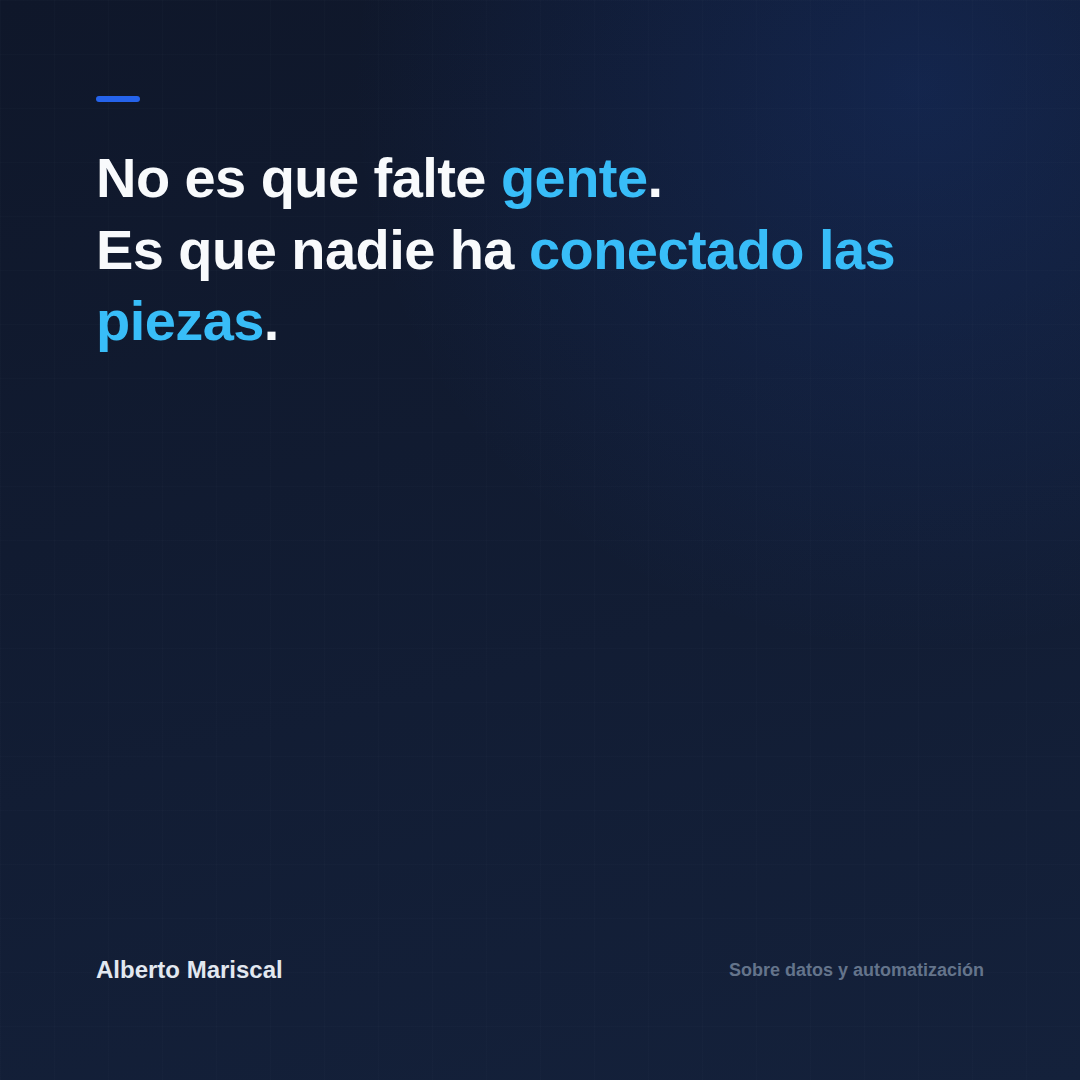
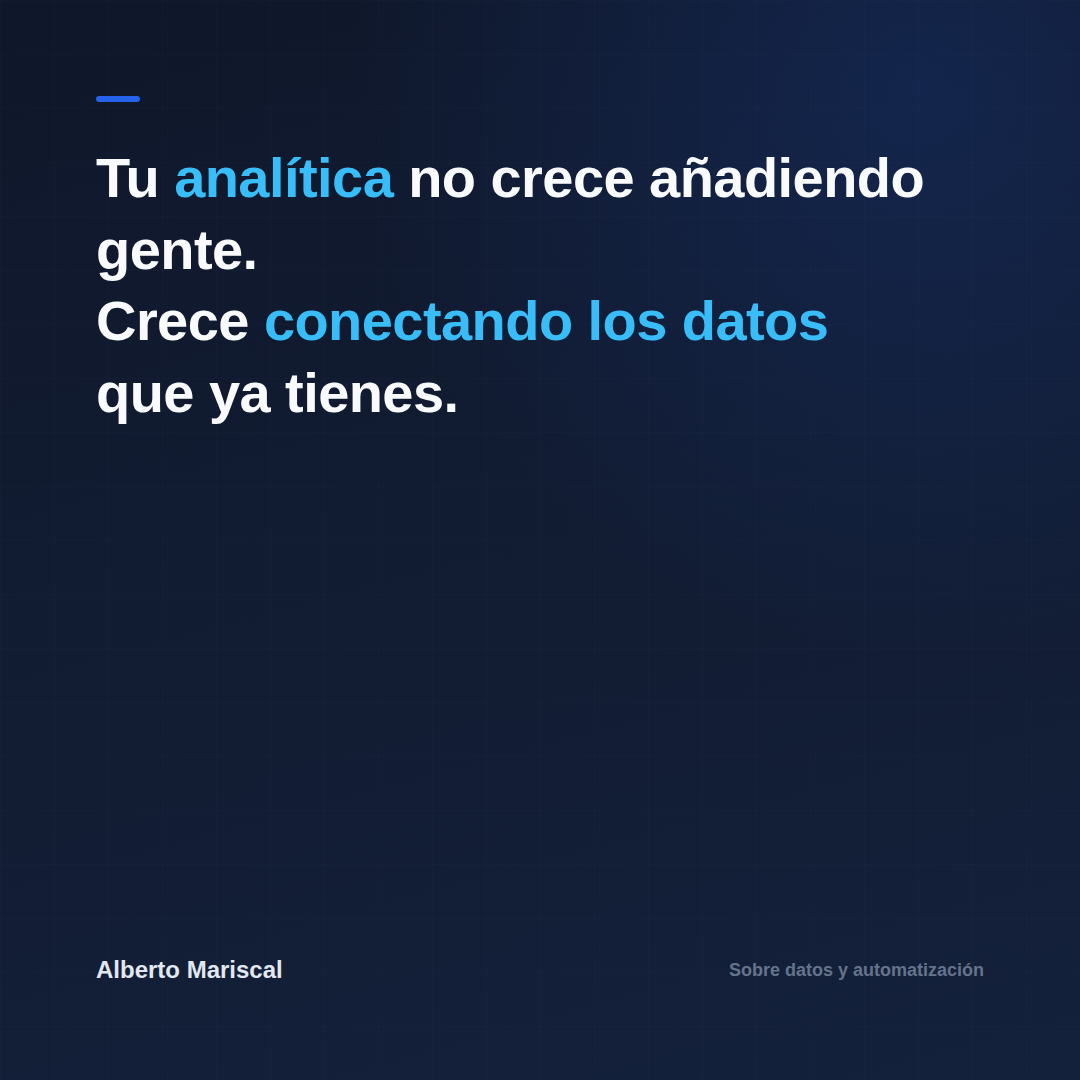
Reformula el post del jueves: en positivo y aterrizado a analítica
"No es que falte gente" sonaba a queja de la empresa actual de
Alberto -- mismo patrón detectado antes en la narrativa del Módulo 4.
Reescrito como afirmación positiva y acotada a analítica en concreto
("tu analítica no crece añadiendo gente, crece conectando los datos
que ya tienes"), en vez de una generalización sobre crecimiento que
no siempre es cierta. Imagen y texto del post actualizados.

Changed region(s): [[0.0917, 0.1222, 0.8556, 0.3972]]

diff --git a/contenido-linkedin/posts/2026-07-16-herramientas-desconectadas/post.md b/contenido-linkedin/posts/2026-07-16-herramientas-desconectadas/post.md
@@ -1,4 +1,4 @@
-# Post — No es que falte gente, es que nadie ha conectado las piezas
+# Post — Tu analítica no crece añadiendo gente, crece conectando los datos que ya tienes
 
 **Estado:** Listo para publicar
 **Fecha prevista:** jueves 2026-07-16
@@ -7,13 +7,13 @@
 
 ---
 
-Cuando una pyme me dice "necesitamos contratar a alguien para esto", casi siempre reviso antes si el problema es realmente de personas.
+Cuando una pyme quiere mejorar su capacidad de análisis, la primera idea suele ser contratar a alguien que se dedique a ello.
 
-La mayoría de las veces no lo es. El problema es que cada herramienta que usan —el CRM, la hoja de cálculo de ventas, el programa de contabilidad— vive en su propio mundo, sin hablarse entre ellas. Así que alguien tiene que pasar horas copiando datos de un sitio a otro a mano, cada semana, para que el resto de la empresa pueda tomar decisiones.
+Pero la mayoría de las veces el problema no es de personas: es que cada área usa su propia herramienta —CRM, hojas de cálculo, contabilidad— sin que se hablen entre sí. Así que cualquier análisis serio empieza igual: juntar datos a mano, herramienta a herramienta, antes de poder sacar ninguna conclusión.
 
-Eso no se arregla con una persona más. Se arregla conectando lo que ya tienes.
+Eso no se arregla con una persona más analizando a mano. Se arregla conectando lo que esas herramientas ya generan, para que cualquiera pueda ver el conjunto sin tener que montarlo cada vez.
 
-Antes de contratar, vale la pena preguntarse: ¿el trabajo que quiero cubrir existe porque falta gente, o porque nadie ha conectado las piezas?
+La pregunta antes de ampliar el equipo: ¿falta gente que analice, o falta conectar lo que ya tienes para poder analizarlo?
 
 ---
 

diff --git a/seguimiento/registro-sesiones.md b/seguimiento/registro-sesiones.md
@@ -137,3 +137,4 @@ A partir de aquí el trabajo es **ejecución**, no diagnóstico: conseguir el pi
 - Regenerado el diagrama del datalake (v3): líneas de conexión reales convergiendo en un nodo con profundidad, en vez de cajas sueltas con una flecha — Alberto pidió explícitamente más nivel.
 - **Convención adoptada: una carpeta por post** (`posts/YYYY-MM-DD-tema/`), con `post.md` + imágenes dentro de la misma carpeta — nada de imágenes sueltas fuera de git ni solo mandadas por chat. Reestructurado el post del datalake (`posts/2026-07-14-datalake/` con `post.md`, `frase.png`, `diagrama.png`), actualizada la plantilla de tutoriales y el backlog en `calendario.md` para reflejar la convención.
 - Segundo post generado para probar cadencia martes-jueves esta semana (sin miércoles): "No es que falte gente, es que nadie ha conectado las piezas" (`posts/2026-07-16-herramientas-desconectadas/`), siguiente tema ya planificado para septiembre, adelantado por la misma lógica que el del martes. La semana que viene se decide con datos reales (impresiones/reacciones reportadas por Alberto) si se añaden más días de publicación.
+- Alberto señaló que "no es que falte gente" sonaba a queja de su empresa actual (mismo patrón ya visto en la narrativa del Módulo 4) — reescrito en positivo y aterrizado específicamente a analítica (no a "crecimiento" en general, que no siempre aplica): **"Tu analítica no crece añadiendo gente. Crece conectando los datos que ya tienes."** Imagen y texto del post actualizados para reflejar el nuevo enfoque.

diff --git a/contenido-linkedin/calendario.md b/contenido-linkedin/calendario.md
@@ -9,7 +9,7 @@ Dos tablas: **Backlog** (borradores listos o en curso, sin publicar todavía) e 
 | Estado | Título/Tema | Carpeta | Fecha prevista | Notas |
 |---|---|---|---|---|
 | Listo | ¿Qué es un datalake? | `posts/2026-07-14-datalake/` | 2026-07-14 (mar) | Primera ejecución de prueba, publicado antes de septiembre por buen resultado en el borrador. Incluye `frase.png` y `diagrama.png` |
-| Listo | No es que falte gente, es que nadie ha conectado las piezas | `posts/2026-07-16-herramientas-desconectadas/` | 2026-07-16 (jue) | Semana de prueba martes-jueves (sin miércoles); la semana que viene se decide con datos reales si se añaden más días |
+| Listo | Tu analítica no crece añadiendo gente, crece conectando los datos que ya tienes | `posts/2026-07-16-herramientas-desconectadas/` | 2026-07-16 (jue) | Reformulado tras feedback: la versión original ("no es que falte gente") sonaba a queja de la empresa actual de Alberto; aterrizado a analítica en concreto, en positivo. Semana de prueba martes-jueves (sin miércoles); la semana que viene se decide con datos reales si se añaden más días |
 | Idea sin desarrollar | Herramientas gratis/baratas de IA para automatizar tareas en una pyme (n8n, Zapier free, Claude/ChatGPT, Canva IA) | — | — | Salido de una búsqueda real de prueba (2026-07-12) — pendiente de convertir en post |
 
 ## Inventario (publicado)
